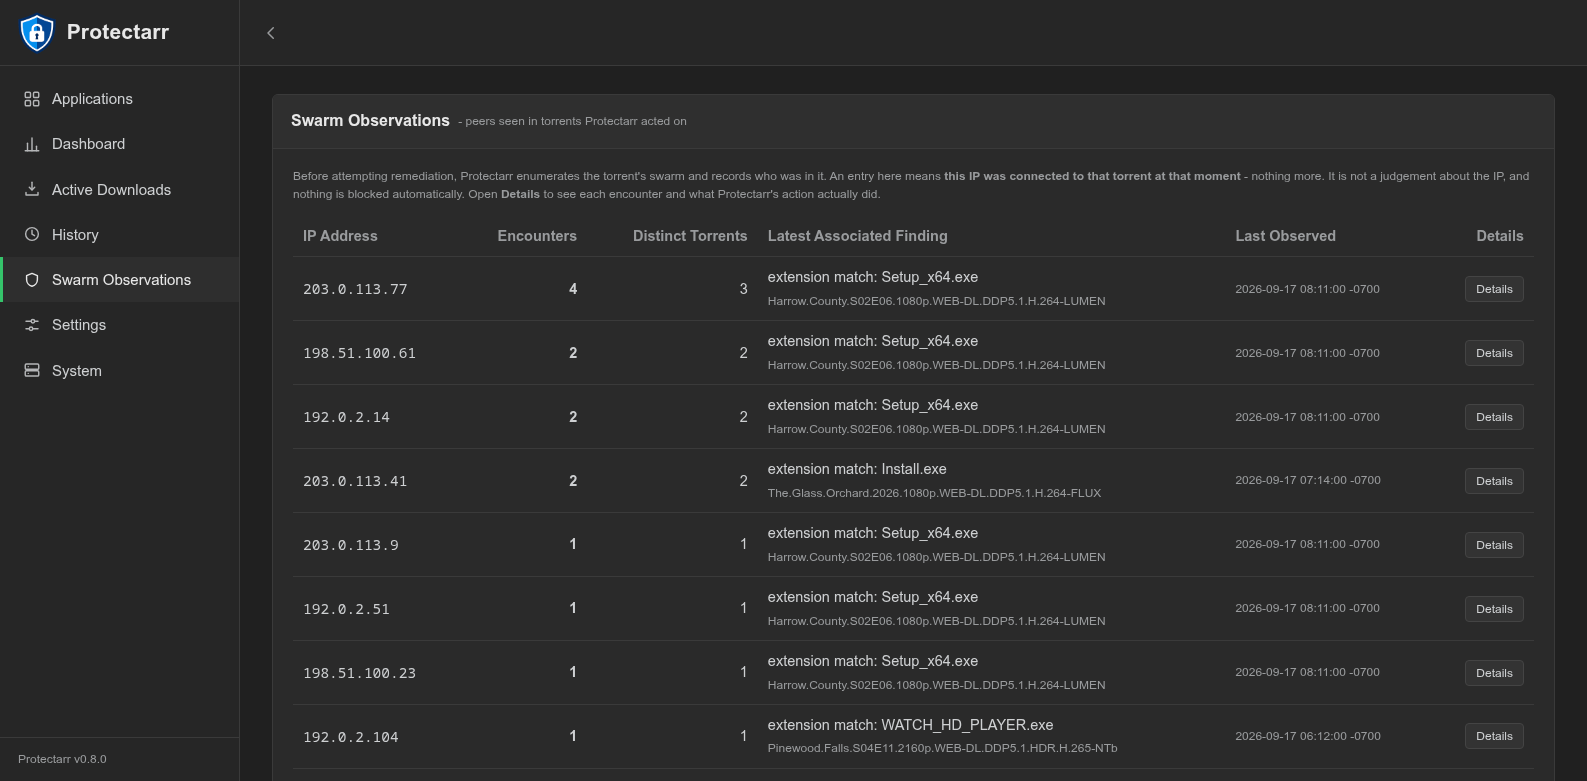
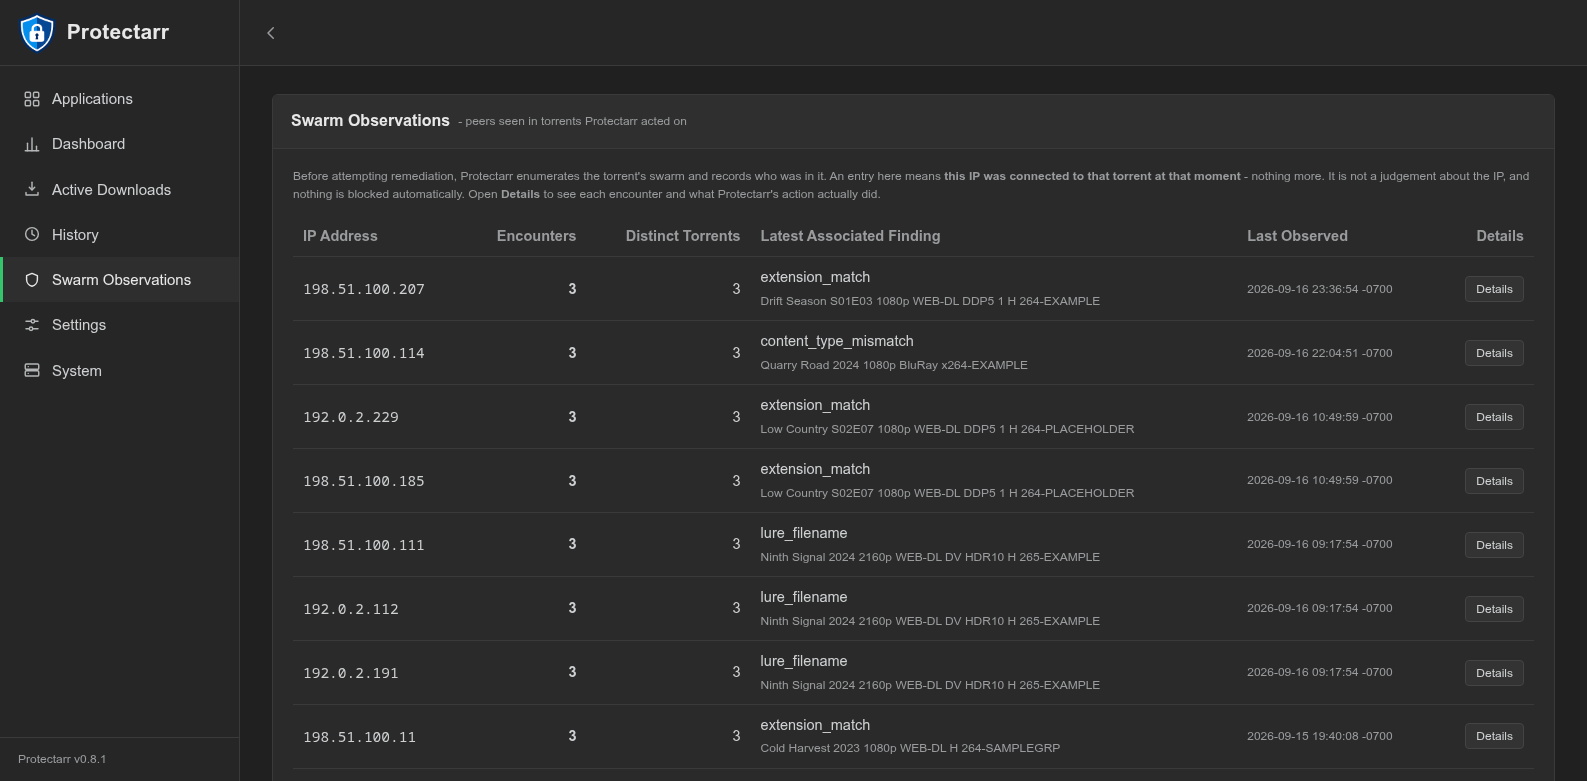
Release 0.8.1
Version surfaces only: protectarr/__init__.py, the README image pins, and
the seven README screenshots, which showed v0.8.0 in the sidebar.

The screenshots were retaken from a container built off this tree, against
a synthetic instance: invented release titles, generic indexer names, and
peers drawn from the RFC 5737 documentation ranges. The previous set came
from a live library, so the sample data differs even though no page
changed in this release.

diff --git a/protectarr/__init__.py b/protectarr/__init__.py
@@ -7,4 +7,4 @@
 # behaviour. `latest` is a convenience, not an identifier: v0.1.0 shipped for
 # months across substantial changes, so a bug report naming it said nothing
 # about which build the reporter was actually running.
-__version__ = "0.8.0"
+__version__ = "0.8.1"

diff --git a/README.md b/README.md
@@ -623,13 +623,13 @@ they were actually running.
 Available image tags:
 
 ```
-ghcr.io/irnutsmurt/protectarr:0.8.0    # exact release, never moves
+ghcr.io/irnutsmurt/protectarr:0.8.1    # exact release, never moves
 ghcr.io/irnutsmurt/protectarr:0.8      # newest patch of that minor line
 ghcr.io/irnutsmurt/protectarr:latest   # newest master build
 ghcr.io/irnutsmurt/protectarr:master   # same thing, named explicitly
 ```
 
-Pin to `0.8.0` or `0.8` if you want to know what you are running. Use `latest`
+Pin to `0.8.1` or `0.8` if you want to know what you are running. Use `latest`
 if you would rather track master and do not mind it moving under you.
 
 The version Protectarr reports comes from one place, `protectarr/__init__.py`.
